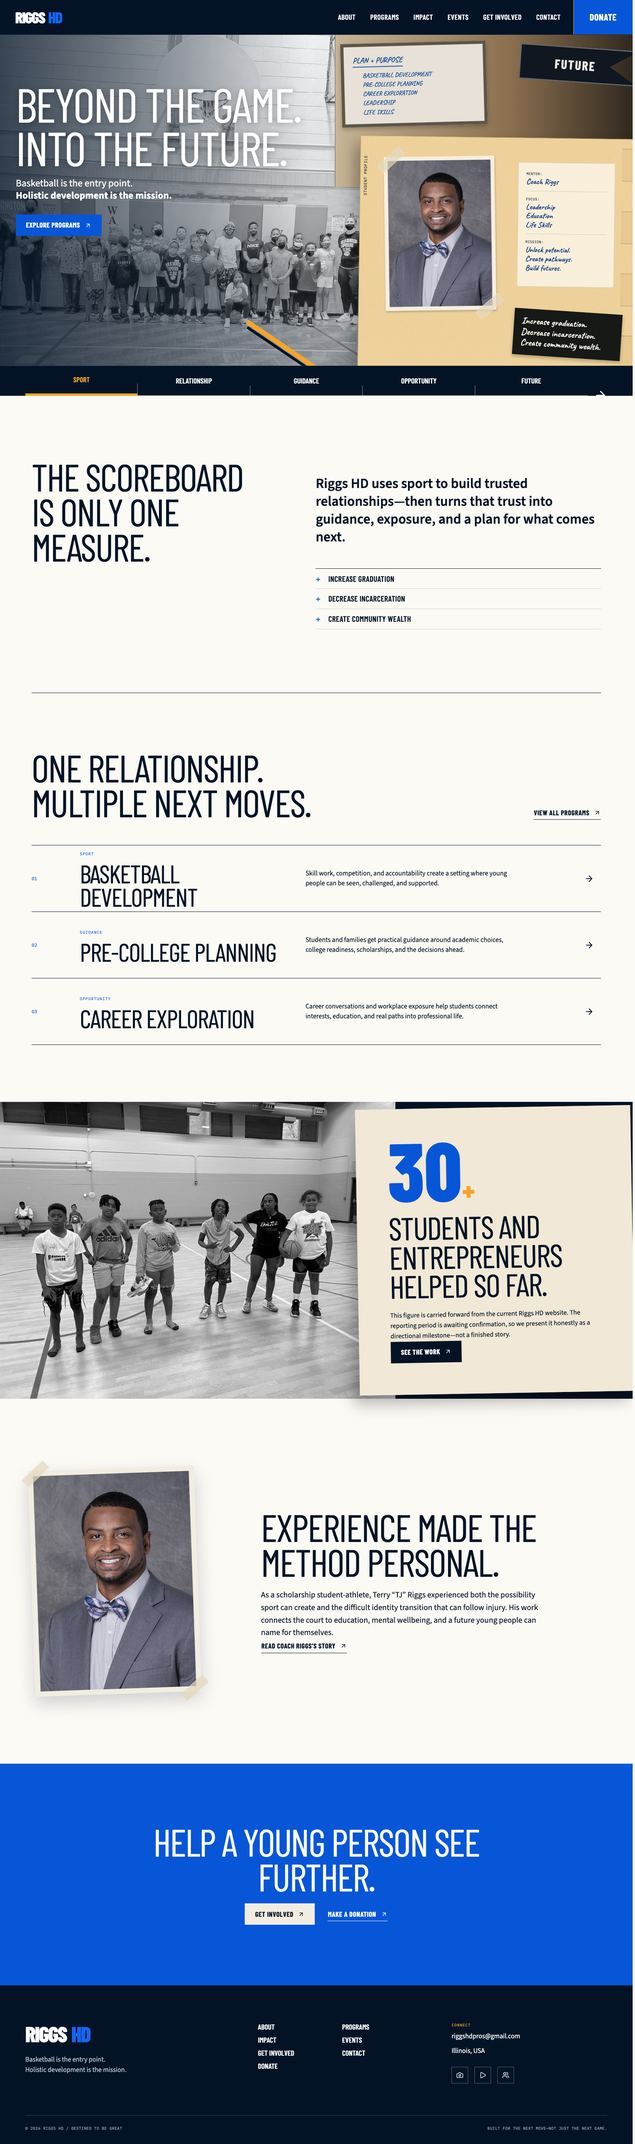
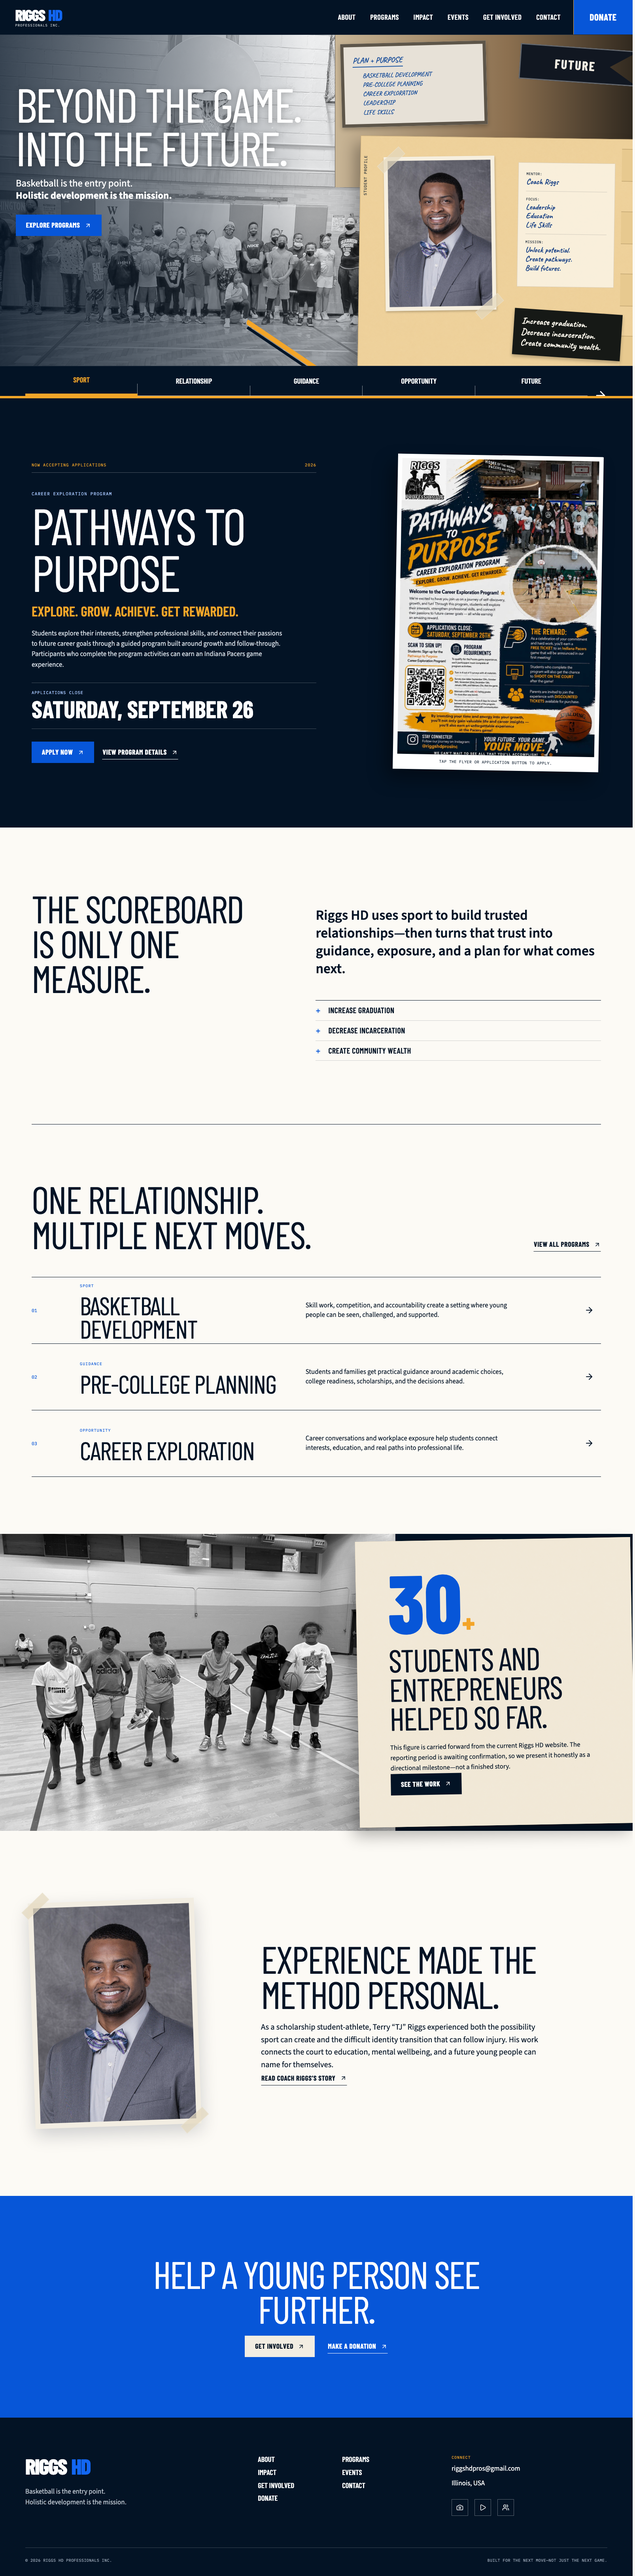
Update program and donation flyers

diff --git a/app/donate/page.tsx b/app/donate/page.tsx
@@ -2,7 +2,8 @@ import type { Metadata } from "next";
 import { ArrowDown, Check } from "lucide-react";
 import { ButtonLink } from "@/components/button-link";
 import { PageHero } from "@/components/page-hero";
-import { site } from "@/data/site";
+import { donationCampaign, site } from "@/data/site";
+import { assetPath } from "@/lib/assets";
 
 export const metadata: Metadata = { title: "Donate", description: "Support Riggs HD youth mentorship, education planning, and career exposure." };
 
@@ -13,6 +14,22 @@ export default function DonatePage() {
       <section className="donation-sheet section-shell">
         <div className="donation-sheet__copy"><h2>The infrastructure around potential.</h2><p>Riggs HD’s public giving page processes donations securely through Givebutter. The button below opens that page in a new tab.</p><ButtonLink href={site.donateUrl} tone="blue">Donate securely</ButtonLink><a className="down-link" href="#giving-note"><ArrowDown aria-hidden="true" />Before you give</a></div>
         <ul className="donation-sheet__uses"><li><Check aria-hidden="true" />Mentoring and student guidance</li><li><Check aria-hidden="true" />Basketball and development programming</li><li><Check aria-hidden="true" />Education and career exposure</li><li><Check aria-hidden="true" />Program materials and access</li></ul>
+      </section>
+      <section className="donation-campaign" aria-labelledby="donation-campaign-title">
+        <div className="donation-campaign__inner section-shell">
+          <div className="donation-campaign__copy">
+            <p className="status-label">Current giving opportunity</p>
+            <h2 id="donation-campaign-title">Help us reach our {donationCampaign.goal} goal.</h2>
+            <p>The current sponsorship guide shows giving levels from $50 to $1,000 and how each contribution supports student materials, leadership development, career exploration, mentorship, and program access.</p>
+            <ButtonLink href={site.donateUrl} tone="blue">Give through Givebutter</ButtonLink>
+          </div>
+          <figure className="donation-campaign__flyer">
+            <a href={site.donateUrl} target="_blank" rel="noreferrer" aria-label={`Donate to the ${donationCampaign.title} campaign through Givebutter (opens in a new tab)`}>
+              <img src={assetPath(donationCampaign.flyerImage)} width="1080" height="1350" alt="Riggs HD Pathways to Purpose donation flyer listing a $6,000 goal and sponsorship levels of $50, $100, $200, $500, and $1,000" />
+            </a>
+            <figcaption>Tap the flyer or button to donate securely through Givebutter.</figcaption>
+          </figure>
+        </div>
       </section>
       <section className="giving-note section-shell" id="giving-note"><h2>2025–26 Career Exploration &amp; Sponsorship.</h2><p>This is the current donation campaign provided by Riggs HD Professionals Inc. Givebutter displays the latest campaign details and securely processes the contribution. Questions can be sent directly to <a href={`mailto:${site.email}`}>{site.email}</a>.</p></section>
       <section className="home-cta"><h2>Access can be as valuable as funding.</h2><div className="home-cta__actions"><ButtonLink href="/get-involved" tone="paper">Explore other roles</ButtonLink><ButtonLink href="/contact" tone="text">Offer a partnership</ButtonLink></div></section>

diff --git a/app/globals.css b/app/globals.css
@@ -290,6 +290,17 @@ h3 { font-size: clamp(1.7rem, 2.5vw, 2.6rem); }
 .donation-sheet__uses { align-self: center; list-style: none; margin: 0; padding: 0; border-top: 1px solid var(--ink); }
 .donation-sheet__uses li { display: flex; align-items: center; gap: 1rem; padding: 1.4rem 0; border-bottom: 1px solid var(--ink); font: 600 1.55rem/1.2 var(--display); text-transform: uppercase; }
 .donation-sheet__uses svg { color: var(--blue); }
+.donation-campaign { color: white; background: var(--ink); border-block: 6px solid var(--amber); }
+.donation-campaign__inner { display: grid; grid-template-columns: minmax(280px, .7fr) minmax(420px, 1fr); align-items: center; gap: clamp(4rem, 8vw, 9rem); padding-block: clamp(6rem, 9vw, 9rem); }
+.donation-campaign__copy { max-width: 620px; }
+.donation-campaign__copy .status-label { color: var(--amber); }
+.donation-campaign__copy h2 { margin: 1rem 0 1.5rem; font-size: clamp(4rem, 6.5vw, 7rem); }
+.donation-campaign__copy > p:not(.status-label) { margin-bottom: 2rem; color: #d4dbe3; font-size: 1.18rem; }
+.donation-campaign__flyer { width: min(100%, 680px); margin: 0 auto; padding: .7rem; background: white; box-shadow: -18px 24px 45px rgba(0,0,0,.38); transform: rotate(1deg); transition: transform .25s ease; }
+.donation-campaign__flyer:hover { transform: rotate(0) translateY(-4px); }
+.donation-campaign__flyer a { display: block; }
+.donation-campaign__flyer img { width: 100%; height: auto; }
+.donation-campaign__flyer figcaption { margin: .7rem .35rem .15rem; color: var(--ink); font: 400 .62rem/1.35 var(--mono); letter-spacing: .04em; text-align: center; text-transform: uppercase; }
 .giving-note { margin-bottom: 8rem; padding: clamp(3rem, 6vw, 6rem); background: var(--paper); border-top: 4px solid var(--amber); }
 .giving-note h2 { font-size: clamp(3rem, 5vw, 5rem); }
 .giving-note a { color: var(--blue); text-decoration: underline; text-underline-offset: .2em; }
@@ -391,6 +402,7 @@ h3 { font-size: clamp(1.7rem, 2.5vw, 2.6rem); }
   .partner-note { grid-template-columns: 1fr; padding-block: 4rem; }
   .partner-note__paper { margin: 0 8vw; }
   .partner-note__copy { padding: 5rem 8vw 1rem; }
+  .donation-campaign__inner { grid-template-columns: 1fr; }
   .site-footer__top { grid-template-columns: 1fr 1fr; }
   .footer-contact { grid-column: 2; }
 }
@@ -473,6 +485,9 @@ h3 { font-size: clamp(1.7rem, 2.5vw, 2.6rem); }
   .partner-note__paper { margin-inline: 1rem; padding: 2.5rem 1.5rem; }
   .partner-note__copy { padding: 4rem 1rem 0; }
   .donation-sheet { padding-block: 5rem; }
+  .donation-campaign__inner { gap: 3rem; padding-block: 5rem; }
+  .donation-campaign__copy h2 { font-size: 4rem; }
+  .donation-campaign__flyer { width: 100%; }
   .giving-note { margin-bottom: 4rem; padding: 2.5rem 1.5rem; }
   .contact-layout { padding-block: 5rem; }
   .field-row { grid-template-columns: 1fr; }

diff --git a/data/site.ts b/data/site.ts
@@ -14,11 +14,17 @@ export const currentProgram = {
   title: "Pathways to Purpose",
   type: "Career Exploration Program",
   tagline: "Explore. Grow. Achieve. Get rewarded.",
-  applicationDeadline: "Sunday, September 6",
+  applicationDeadline: "Saturday, September 26",
   description: "Students explore their interests, strengthen professional skills, and connect their passions to future career goals through a guided program built around growth and follow-through.",
   reward: "Participants who complete the program activities can earn an Indiana Pacers game experience.",
   formUrl: "https://forms.gle/FzfSuPugSC7dZY6L9",
   flyerImage: "/images/original/pathways-to-purpose-2026.webp",
+};
+
+export const donationCampaign = {
+  title: "Pathways to Purpose Career Exploration & Leadership Program",
+  goal: "$6,000",
+  flyerImage: "/images/original/givebutter-sponsorship-2025-26.webp",
 };
 
 export const navItems = [
@@ -83,7 +89,7 @@ export const programs: Program[] = [
     eyebrow: "Exposure expands the possible",
     summary: "Career conversations and workplace exposure help students connect interests, education, and real paths into professional life.",
     details: "Applications are now open for the 2026 Pathways to Purpose program, a guided career-exploration experience connecting student interests to professional skills and future goals.",
-    status: "2026 applications open through September 6",
+    status: "2026 applications open through September 26",
     actionLabel: "Apply for Pathways to Purpose",
     actionUrl: currentProgram.formUrl,
     image: "/images/original/home-action-3.jpg",

diff --git a/components/current-program-feature.tsx b/components/current-program-feature.tsx
@@ -28,7 +28,7 @@ export function CurrentProgramFeature({ showEventsLink = false }: { showEventsLi
 
         <figure className="current-program__flyer">
           <a href={currentProgram.formUrl} target="_blank" rel="noreferrer" aria-label={`Apply for ${currentProgram.title} (opens in a new tab)`}>
-            <img src={assetPath(currentProgram.flyerImage)} width="1024" height="1536" alt="Pathways to Purpose Career Exploration Program flyer with a September 6 application deadline and Indiana Pacers experience reward" />
+            <img src={assetPath(currentProgram.flyerImage)} width="1024" height="1536" alt="Pathways to Purpose Career Exploration Program flyer with a September 26 application deadline, signup QR code, and Indiana Pacers experience reward" />
           </a>
           <figcaption>Tap the flyer or application button to apply.</figcaption>
         </figure>

diff --git a/scripts/qa_site.py b/scripts/qa_site.py
@@ -43,13 +43,17 @@ with sync_playwright() as p:
             flyer = desktop.locator('img[src*="pathways-to-purpose-2026.webp"]')
             if flyer.count() != 1 or not flyer.first.is_visible():
                 failures.append(f"{route}: current program flyer is missing or not visible")
-        expected_donation_links = 2 if route == "/donate/" else 1
+        expected_donation_links = 4 if route == "/donate/" else 1
         actual_donation_links = desktop.locator(f'a[href="{DONATION_URL}"]').count()
         if actual_donation_links != expected_donation_links:
             failures.append(
                 f"{route}: expected {expected_donation_links} current donation links, "
                 f"found {actual_donation_links}"
             )
+        if route == "/donate/":
+            donation_flyer = desktop.locator('img[src*="givebutter-sponsorship-2025-26.webp"]')
+            if donation_flyer.count() != 1 or not donation_flyer.first.is_visible():
+                failures.append("/donate/: current sponsorship flyer is missing or not visible")
         overflow = desktop.evaluate("document.documentElement.scrollWidth - window.innerWidth")
         if overflow > 2:
             culprits = desktop.evaluate("""Array.from(document.querySelectorAll('*')).map(el => ({tag: el.tagName, cls: el.className || '', right: el.getBoundingClientRect().right, width: el.getBoundingClientRect().width})).filter(x => x.right > window.innerWidth + 2).slice(0, 8)""")
@@ -71,6 +75,7 @@ with sync_playwright() as p:
     application_page.close()
 
     desktop.goto(f"{BASE_URL}/donate/", wait_until="networkidle")
+    desktop.screenshot(path=str(REVIEW_DIR / "desktop-donate-full.png"), full_page=True)
     with desktop.expect_popup() as donation_popup_info:
         desktop.get_by_role("link", name="Donate securely").click()
     donation_page = donation_popup_info.value
@@ -112,6 +117,15 @@ with sync_playwright() as p:
     if mobile_overflow > 2:
         failures.append(f"mobile contact: horizontal overflow {mobile_overflow}px")
 
+    mobile.goto(f"{BASE_URL}/donate/", wait_until="networkidle")
+    mobile.screenshot(path=str(REVIEW_DIR / "mobile-donate-full.png"), full_page=True)
+    mobile_donation_flyer = mobile.locator('img[src*="givebutter-sponsorship-2025-26.webp"]')
+    if mobile_donation_flyer.count() != 1 or not mobile_donation_flyer.first.is_visible():
+        failures.append("mobile donate: sponsorship flyer is missing or not visible")
+    mobile_donate_overflow = mobile.evaluate("document.documentElement.scrollWidth - window.innerWidth")
+    if mobile_donate_overflow > 2:
+        failures.append(f"mobile donate: horizontal overflow {mobile_donate_overflow}px")
+
     desktop.goto(BASE_URL, wait_until="networkidle")
     donate_href = desktop.locator("a.nav-donate").get_attribute("href")
     if donate_href != DONATION_URL:
@@ -130,5 +144,5 @@ if failures:
 
 print(
     f"QA PASSED: {len(ROUTES)} routes; desktop/tablet/mobile layouts; full organization name; "
-    "current flyer, Google application, current Givebutter campaign; images and form labels."
+    "current program and sponsorship flyers, Google application, current Givebutter campaign; images and form labels."
 )

diff --git a/ASSET_MANIFEST.md b/ASSET_MANIFEST.md
@@ -19,6 +19,8 @@ Inline asset-producer substitution: this manifest follows the Impeccable degrade
 | `pacers-visit` | Wix original | `public/images/original/home-action-3.jpg` | ship supplied program/event photo | 1170×779 | JPEG | opaque | none | accepted |
 | `graduation` | Wix original | `public/images/original/founder-graduation.jpg` | ship supplied education photo | 1170×977 | JPEG | opaque | none | accepted |
 | `program-reel` | Wix original | `public/videos/original/program-reel.mp4` | lazy-loaded native video with poster and controls | 1080p source | MP4 | opaque | none | accepted |
+| `pathways-purpose-flyer-2026` | TJ-supplied current program flyer | `public/images/original/pathways-to-purpose-2026.webp` | loss-aware WebP conversion for responsive web delivery | 1024×1536 | WebP | opaque | converted from JPEG; content unchanged | accepted |
+| `givebutter-sponsorship-flyer-2025-26` | TJ-supplied current donation flyer | `public/images/original/givebutter-sponsorship-2025-26.webp` | loss-aware WebP conversion for responsive web delivery | 1080×1350 | WebP | opaque | converted from JPEG; content unchanged | accepted |
 
 ## Semantic
 
